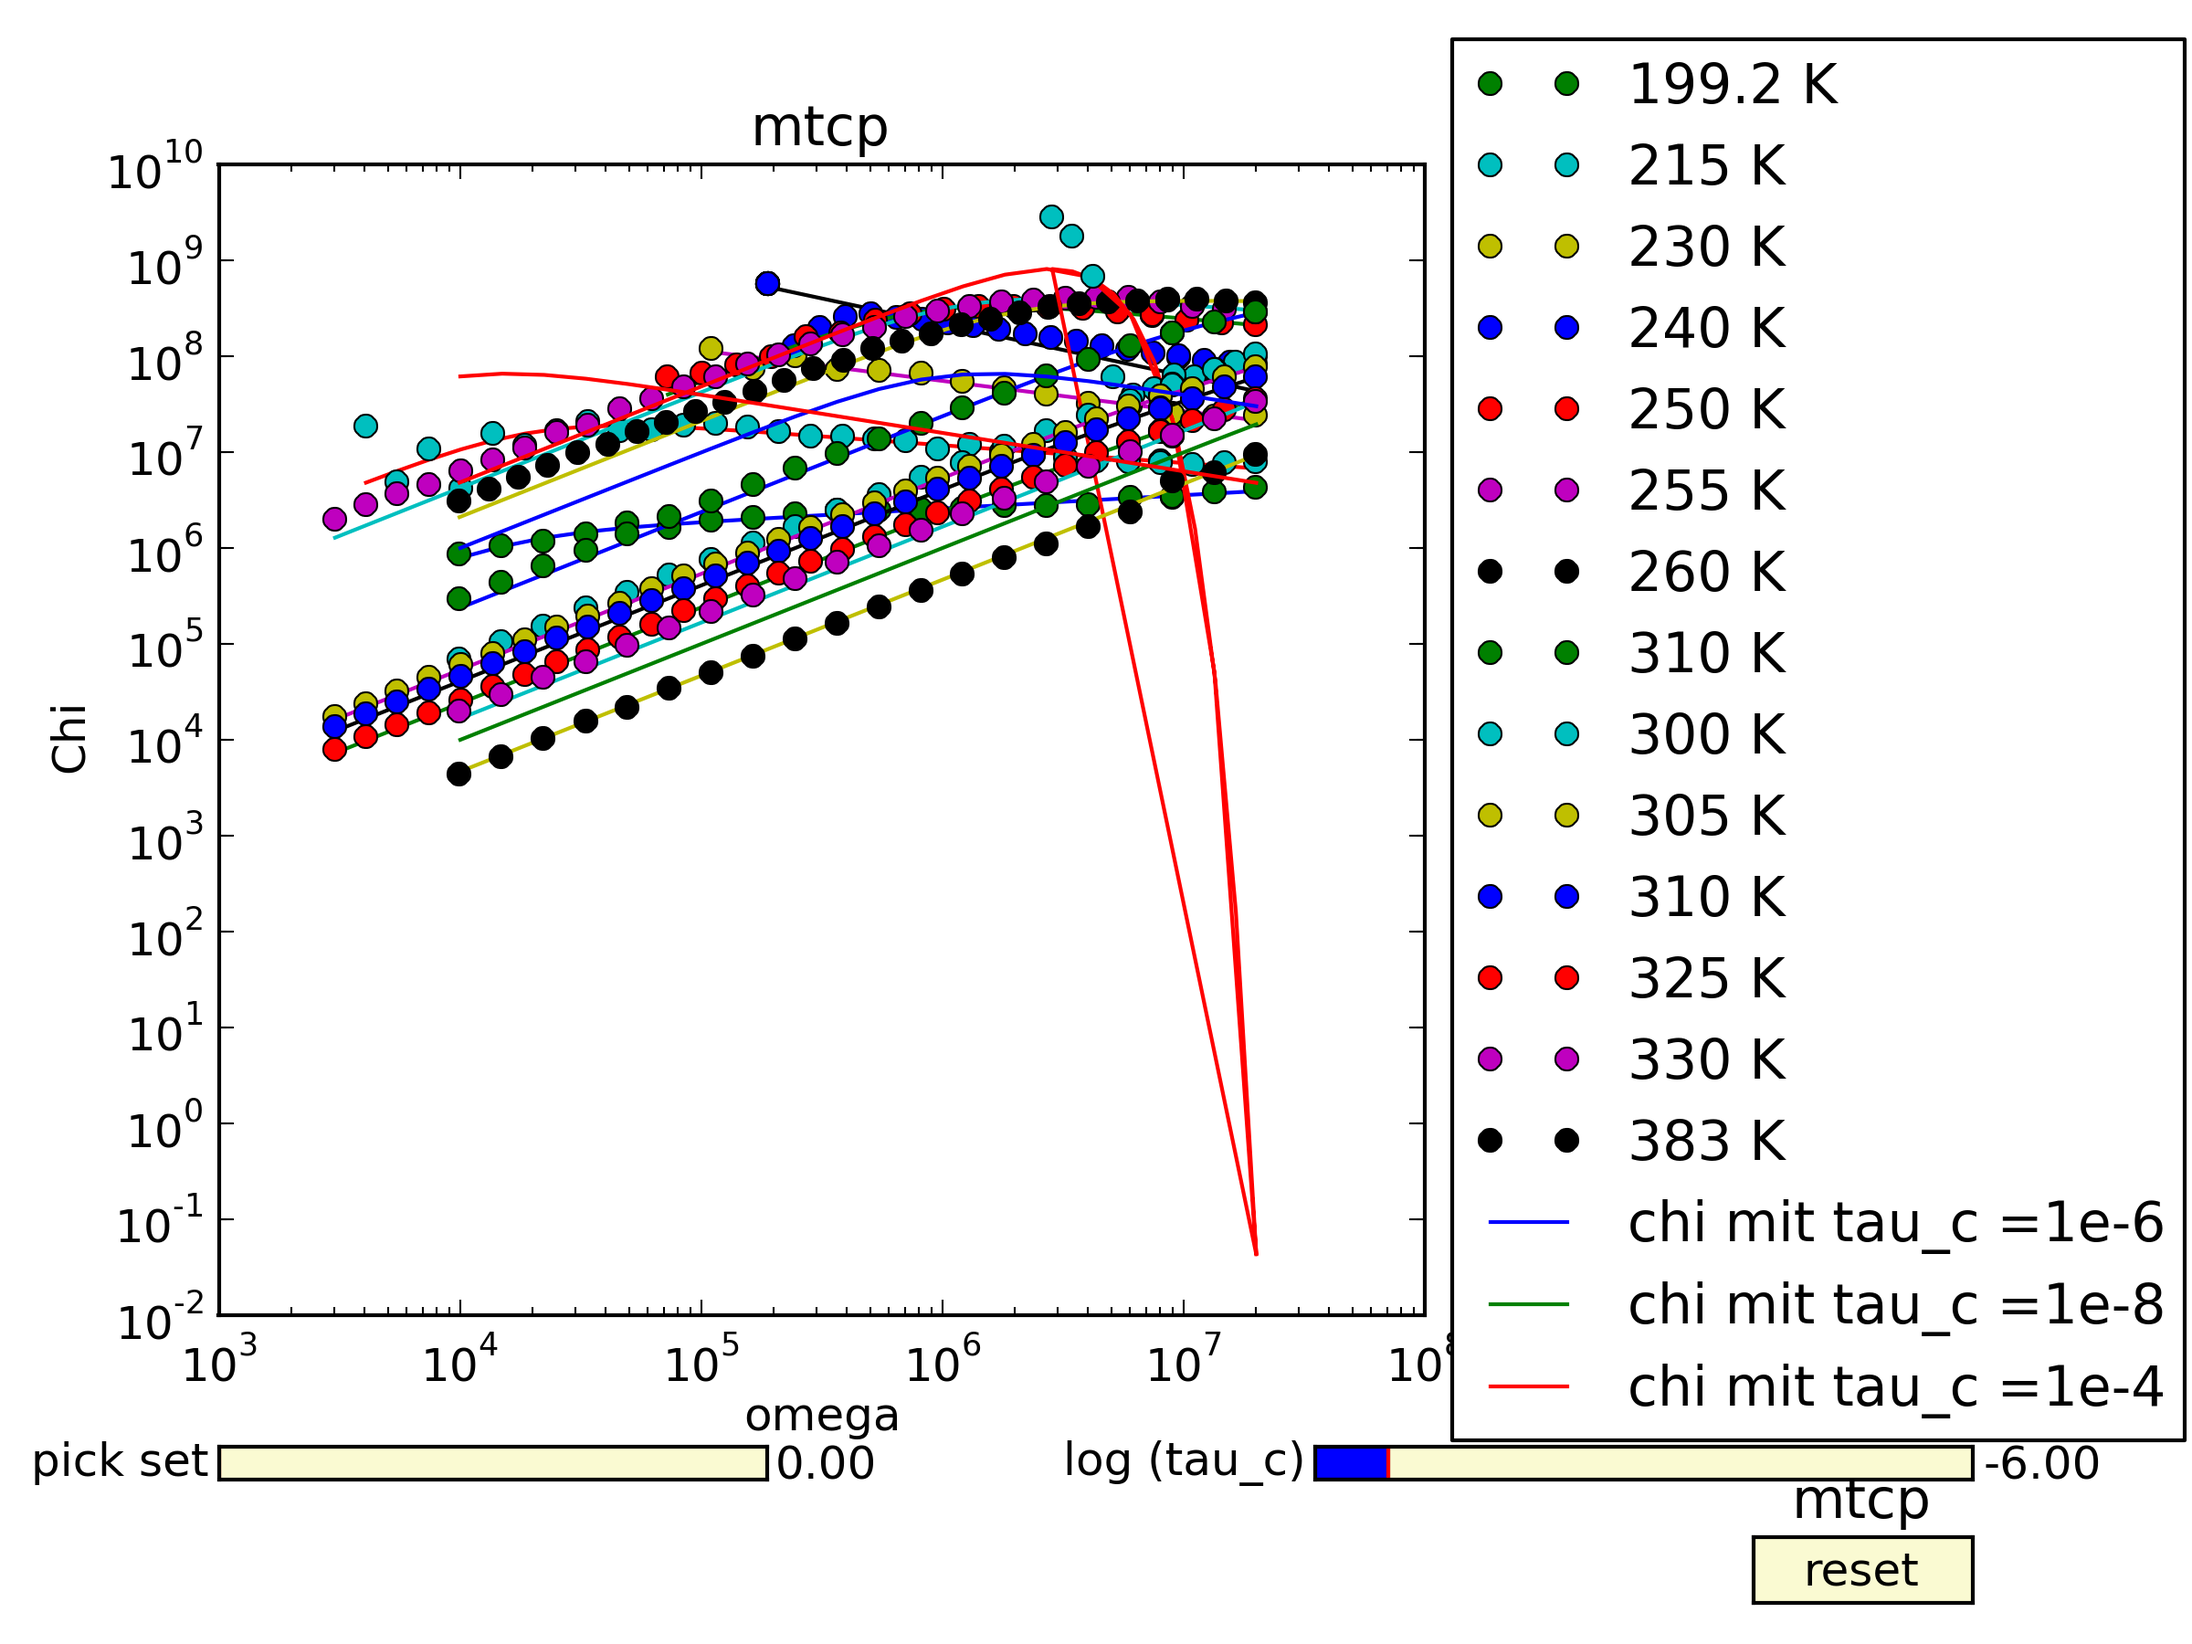
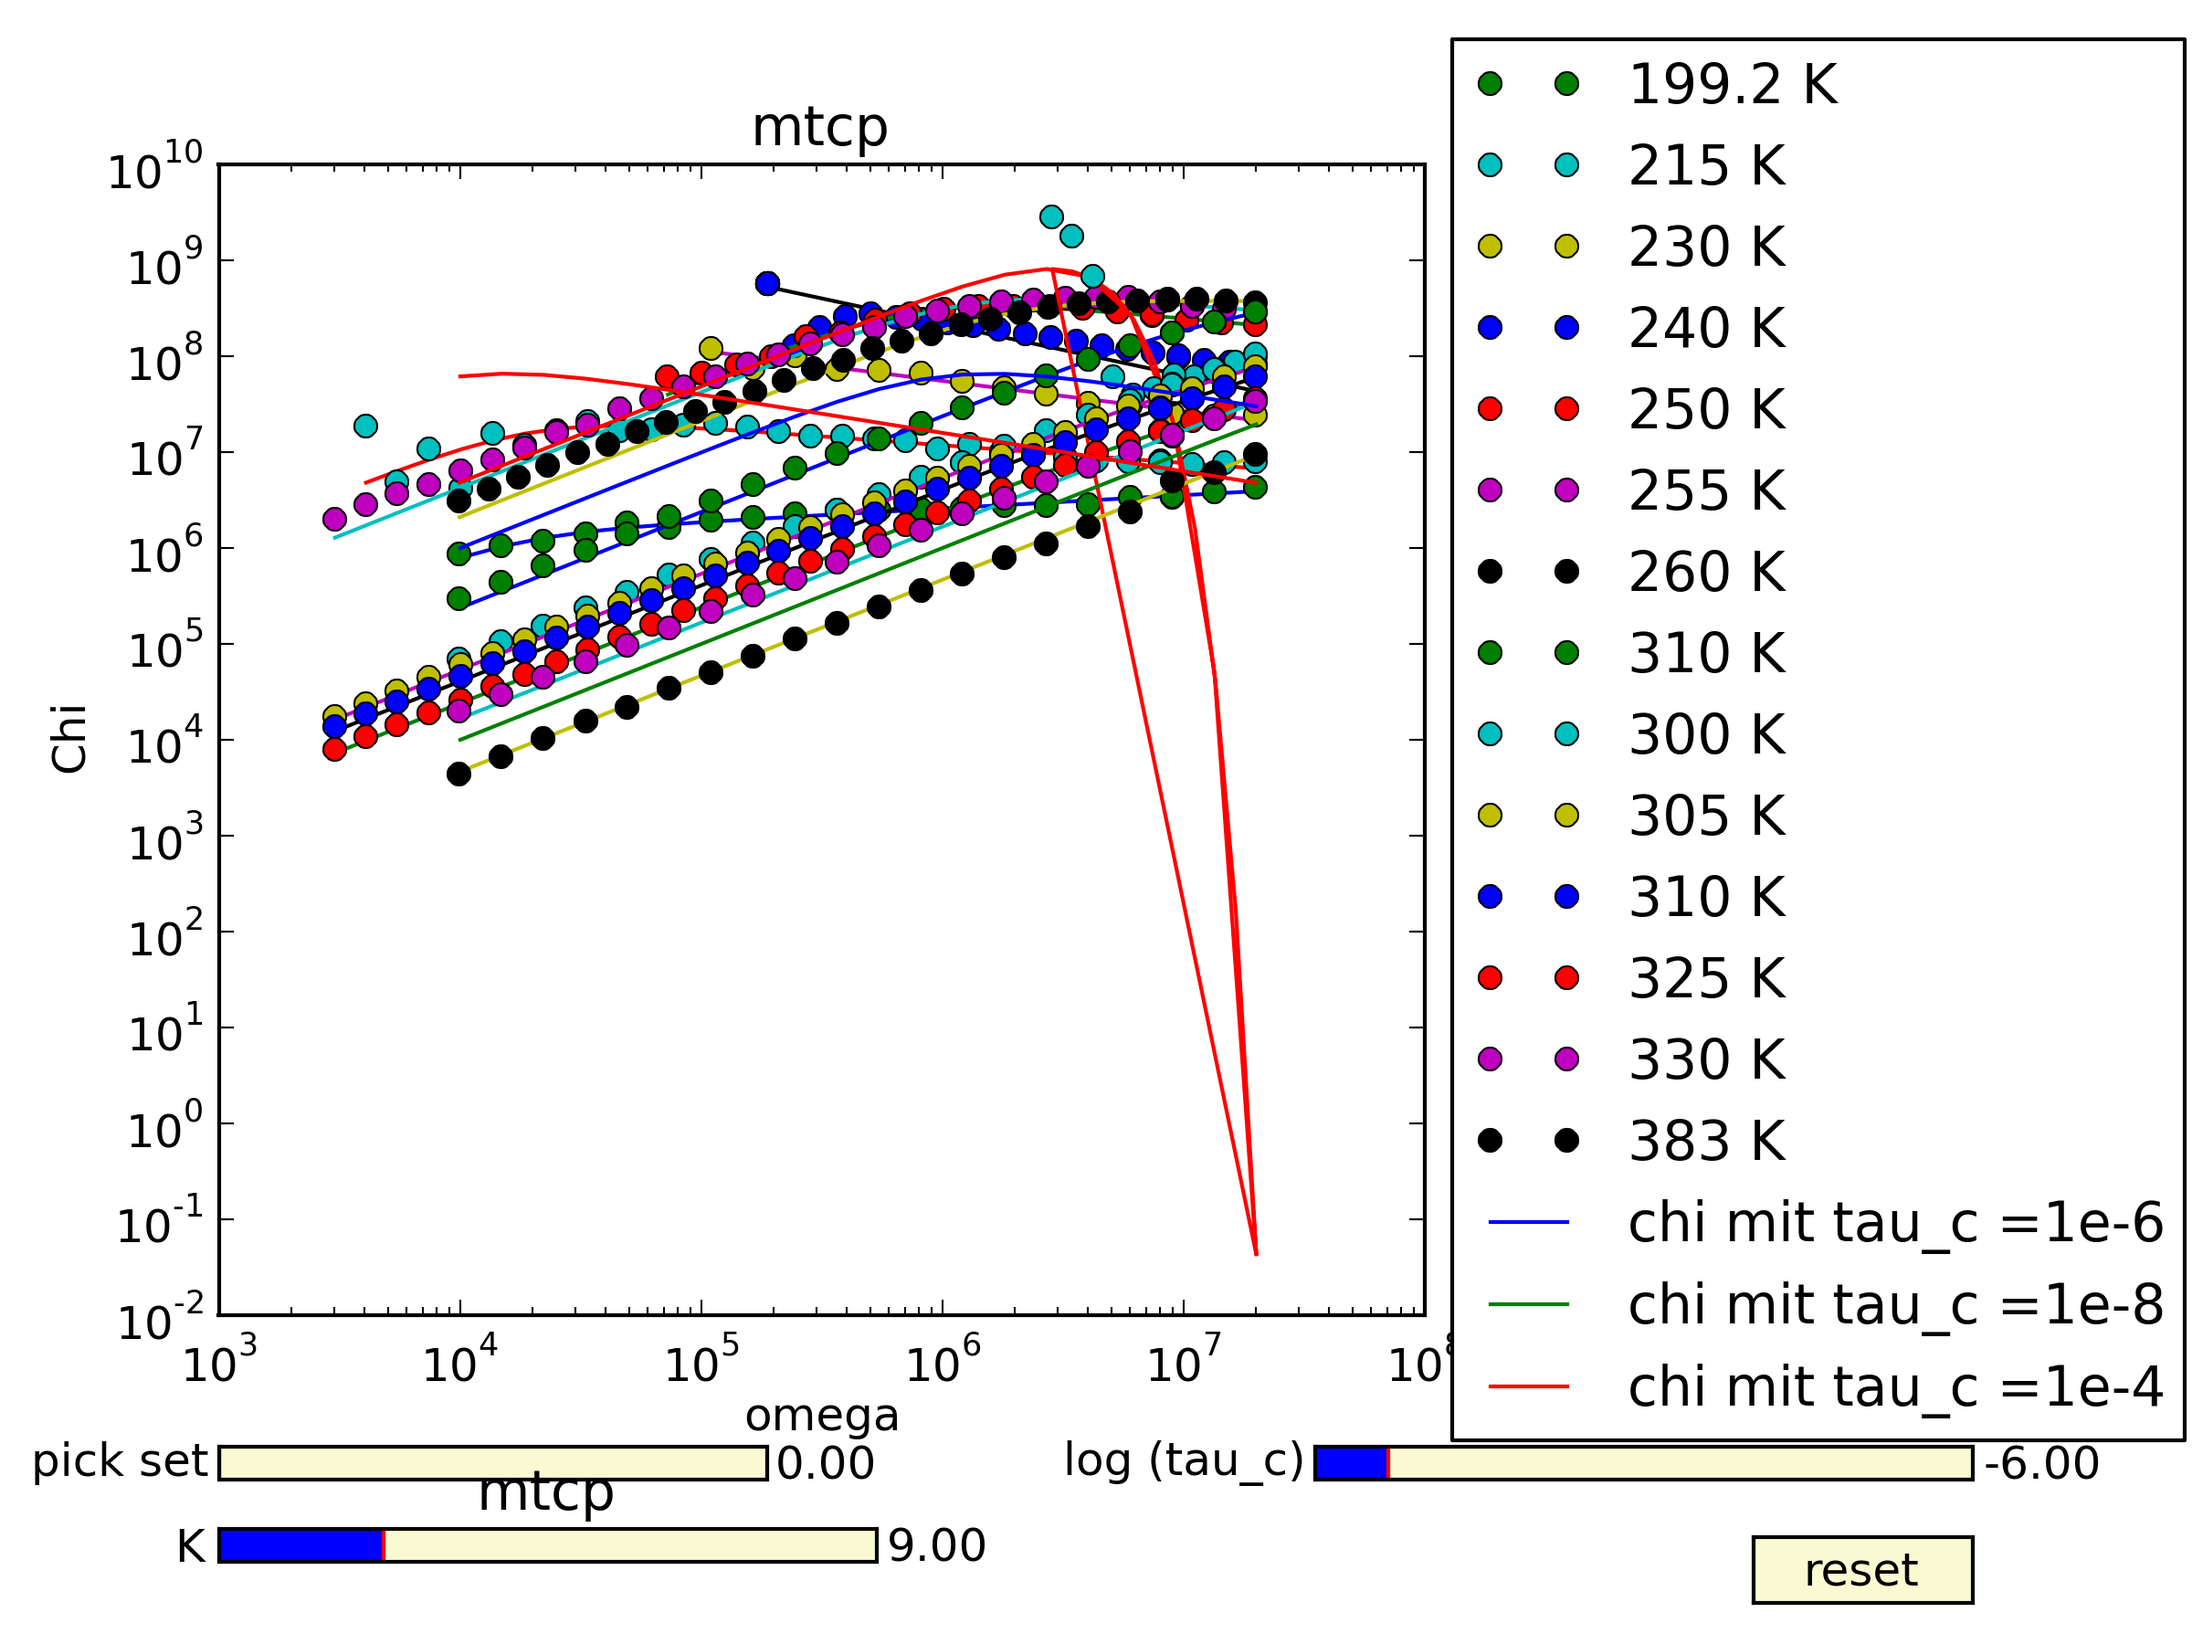
wir sind dran die D zu vergleichen mit schmidtke tau rot zeitkonstanten, output aus dem interaktiv susz geht no ned

Changed region(s): [[0.0938, 0.9022, 0.4375, 0.9644], [0.8125, 0.9022, 0.875, 0.9333]]

diff --git a/interaktiv-susz.py b/interaktiv-susz.py
@@ -14,6 +14,8 @@ br=[]
 rf=[]
 ra1=[]
 ch=[]
+zeichneD=[]
+zeichneT=[]
 beta=0.9
 omega=np.logspace(4.0,7.301,20,10)
 tau_c=1.0e-6
@@ -43,14 +45,14 @@ def Chi(omega,tau_c,beta,K_DD):
 def R_1(omega,R1_0,D):
 	mu_0 =1.2566e-6
 	h_quer = 6.626e-34/(2.*np.pi)
-	gamma_H=2.675e8*2*np.pi
+	gamma_H=2.675e8#/2/np.pi
 	N_a=6.022e23
 	n_H=21.0
 	rho=rho_mTCP=1.15*1e6
 	M=M_mTCP=368.4
 	N=n_H*N_a*rho/M
 	B=np.pi/30.*(1.+4.*(2.**0.5))*(mu_0/4./np.pi * h_quer * gamma_H **2)**2 * N
-	print N, omega,R1_0,D,B,R1_0-B/(D**1.5) *omega**0.5
+	#print N, omega,R1_0,D,B,R1_0-B/(D**1.5) *omega**0.5
 	return R1_0-B/(D**1.5) *omega**0.5
 ##die verschiebefunktion fuer die suszibilitaet
 def update(val):
@@ -119,21 +121,44 @@ def r_ref(r):
 	d=10**float(sd0.val)
 	for i,om in enumerate(omega): 
 		br.append(omega[i]**0.5)
-		ra1.append(R_1(omega[i],r,d))
+		ra1.append(R_1(omega[i],10**r,d))
 	wurzelax.lines[wurzelax.lines.__len__()-1].set_ydata(ra1)
 	plt.draw()
 def d0(d):
 	br=[]
 	ra1=[]
 	rf=[]
-	r=float(sr0.val)
+	r=10**float(sr0.val)
 	d=10**d
+	print d
 	for i,om in enumerate(omega): 
 		br.append(omega[i]**0.5)
 		ra1.append(R_1(omega[i],r,d))
 	wurzelax.lines[wurzelax.lines.__len__()-1].set_ydata(ra1)
 	plt.draw()
 	return d
+def conf(event):
+	d=float(sd0.val)
+	r=10**(float(sr0.val))
+	T=raw_input('gebe temperatur ein')
+	zeichneD.append(d)
+	zeichneT.append(1000/float(T))
+	plt.figure(5)
+	plt.plot(zeichneT,zeichneD)
+	lsout=[]
+	for i, x in enumerate(zeichneD):
+		lsout.append(str(zeichneD[i])+'\t'+str(zeichneT[i])+'\n \r')
+	fout=open('m-tcp_D.dat','w')
+	fout.write(str(lsout))
+
+def normchi(K):
+	plt.figure(1)
+	for line in ax.lines:
+		linex=line.get_xdata()
+		liney=line.get_ydata()
+		for y in liney: y=y/(10**K)
+		line.set_ydata(liney)
+	plt.draw()
 def reset(event):
 	stau_c.reset()
 
@@ -151,13 +176,17 @@ axpicker=plt.axes([0.1,0.1,0.25,0.02],axisbg=axcolor)
 picker=Slider(axpicker,'pick set',0,sef.__len__()-0.01,valinit=0)
 resetax =plt.axes([0.8,0.025,0.1,0.04])
 button = Button(resetax,'reset',color=axcolor,hovercolor='0.975')
+axK = plt.axes([0.1,0.05,0.3,0.02],axisbg=axcolor)
+sK=Slider(axK,'K',8,12,valinit=9)
 
 plt.figure(2)
 wurzelax=plt.axes([0.1,0.1,0.8,0.8])
 axr0=plt.axes([0.05,0.02,0.6,0.02],axisbg=axcolor)
-sr0=Slider(axr0,'r0',500,2000,valinit=1.0)
+sr0=Slider(axr0,'r0',-1,4,valinit=1.0)
 axD=plt.axes([0.7,0.02,0.2,0.02],axisbg=axcolor)
 sd0=Slider(axD,'D',-15,-7,valinit=-11)
+confax =plt.axes([0.9,0.025,0.08,0.04])
+bconf = Button(confax,'confirm & append',color=axcolor,hovercolor='0.975')
 
 plt.figure(3)
 ##wird spaeter bemalt
@@ -168,12 +197,19 @@ plt.title('verschiebefaktoren in der suszeptiblitaet')
 plt.xlabel('T')
 plt.ylabel('schiebefaktoren a.u.')
 
+plt.figure(5)
+diffax=plt.axes([0.15,0.15,0.8,0.8])
+plt.title('Diffusion')
+plt.xlabel('1000/T $[K^{-1}]$')
+plt.ylabel(r'lg(D) $[\frac{m^2}{s}]$')
 ##interaktion mit der gui
 picker.on_changed(pick)
 button.on_clicked(reset)
 stau_c.on_changed(update)
+sK.on_changed(normchi)
 sr0.on_changed(r_ref)
 sd0.on_changed(d0)
+bconf.on_clicked(conf)
 
 sefdata=[]
 temps=[]
@@ -243,7 +279,7 @@ for filename in sef:
 	wurzelax=plt.axes([0.1,0.1,0.8,0.8])
 	for i, b in enumerate(brlx):
 		brlx[i]=brlx[i]**0.5
-	plt.plot(brlx,r1,label=relativefile[0])
+	plt.plot(brlx,r1,label=temp+' K')
 	plt.figure(3)
 	plt.title('Rate')
 	plt.xscale('log')
@@ -258,6 +294,7 @@ print (map(lambda x: x**0.5,omega),map(lambda y:R_1(y,2,1e-10),wurzelomega))
 
 plt.figure(2)
 plt.plot(wurzelomega,map(lambda x: R_1(x,20,10e-9),omega))
+plt.legend()
 plt.figure(1)
 plt.plot(omega, Chi(omega,1e-6,0.7,1e8),label='chi mit tau_c =1e-6')
 plt.plot(omega, Chi(omega,1e-8,0.7,1e8),label='chi mit tau_c =1e-8')

diff --git a/mtcp/interaktiv-susz.py b/mtcp/interaktiv-susz.py
@@ -14,6 +14,8 @@ br=[]
 rf=[]
 ra1=[]
 ch=[]
+zeichneD=[]
+zeichneT=[]
 beta=0.9
 omega=np.logspace(4.0,7.301,20,10)
 tau_c=1.0e-6
@@ -43,14 +45,14 @@ def Chi(omega,tau_c,beta,K_DD):
 def R_1(omega,R1_0,D):
 	mu_0 =1.2566e-6
 	h_quer = 6.626e-34/(2.*np.pi)
-	gamma_H=2.675e8*2*np.pi
+	gamma_H=2.675e8#/2/np.pi
 	N_a=6.022e23
 	n_H=21.0
 	rho=rho_mTCP=1.15*1e6
 	M=M_mTCP=368.4
 	N=n_H*N_a*rho/M
 	B=np.pi/30.*(1.+4.*(2.**0.5))*(mu_0/4./np.pi * h_quer * gamma_H **2)**2 * N
-	print N, omega,R1_0,D,B,R1_0-B/(D**1.5) *omega**0.5
+	#print N, omega,R1_0,D,B,R1_0-B/(D**1.5) *omega**0.5
 	return R1_0-B/(D**1.5) *omega**0.5
 ##die verschiebefunktion fuer die suszibilitaet
 def update(val):
@@ -119,21 +121,38 @@ def r_ref(r):
 	d=10**float(sd0.val)
 	for i,om in enumerate(omega): 
 		br.append(omega[i]**0.5)
-		ra1.append(R_1(omega[i],r,d))
+		ra1.append(R_1(omega[i],10**r,d))
 	wurzelax.lines[wurzelax.lines.__len__()-1].set_ydata(ra1)
 	plt.draw()
 def d0(d):
 	br=[]
 	ra1=[]
 	rf=[]
-	r=float(sr0.val)
+	r=10**float(sr0.val)
 	d=10**d
+	print d
 	for i,om in enumerate(omega): 
 		br.append(omega[i]**0.5)
 		ra1.append(R_1(omega[i],r,d))
 	wurzelax.lines[wurzelax.lines.__len__()-1].set_ydata(ra1)
 	plt.draw()
 	return d
+def conf(event):
+	d=10**(float(sd0.val))
+	r=10**(float(sr0.val))
+	zeichneD.append(d)
+	T=raw_input('gebe temperatur ein')
+	zeichneT.append(1000/float(T))
+	plt.figure(5)
+	plt.plot(zeichneT,zeichneD)
+def normchi(K):
+	plt.figure(1)
+	for line in ax.lines:
+		linex=line.get_xdata()
+		liney=line.get_ydata()
+		for y in liney: y=y/(10**K)
+		line.set_ydata(liney)
+	plt.draw()
 def reset(event):
 	stau_c.reset()
 
@@ -151,13 +170,17 @@ axpicker=plt.axes([0.1,0.1,0.25,0.02],axisbg=axcolor)
 picker=Slider(axpicker,'pick set',0,sef.__len__()-0.01,valinit=0)
 resetax =plt.axes([0.8,0.025,0.1,0.04])
 button = Button(resetax,'reset',color=axcolor,hovercolor='0.975')
+axK = plt.axes([0.1,0.05,0.3,0.02],axisbg=axcolor)
+sK=Slider(axK,'K',8,12,valinit=9)
 
 plt.figure(2)
 wurzelax=plt.axes([0.1,0.1,0.8,0.8])
 axr0=plt.axes([0.05,0.02,0.6,0.02],axisbg=axcolor)
-sr0=Slider(axr0,'r0',0.1500,10.2000,valinit=1.0)
+sr0=Slider(axr0,'r0',-1,4,valinit=1.0)
 axD=plt.axes([0.7,0.02,0.2,0.02],axisbg=axcolor)
-sd0=Slider(axD,'D',-13,-8,valinit=-11)
+sd0=Slider(axD,'D',-15,-7,valinit=-11)
+confax =plt.axes([0.9,0.025,0.08,0.04])
+bconf = Button(confax,'confirm & append',color=axcolor,hovercolor='0.975')
 
 plt.figure(3)
 ##wird spaeter bemalt
@@ -168,12 +191,19 @@ plt.title('verschiebefaktoren in der suszeptiblitaet')
 plt.xlabel('T')
 plt.ylabel('schiebefaktoren a.u.')
 
+plt.figure(5)
+diffax=plt.axes([0.15,0.15,0.8,0.8])
+plt.title('Diffusion')
+plt.xlabel('1000/T $[K^{-1}]$')
+plt.ylabel(r'D $[\frac{m^2}{s}]$')
 ##interaktion mit der gui
 picker.on_changed(pick)
 button.on_clicked(reset)
 stau_c.on_changed(update)
+sK.on_changed(normchi)
 sr0.on_changed(r_ref)
 sd0.on_changed(d0)
+bconf.on_clicked(conf)
 
 sefdata=[]
 temps=[]
@@ -243,7 +273,7 @@ for filename in sef:
 	wurzelax=plt.axes([0.1,0.1,0.8,0.8])
 	for i, b in enumerate(brlx):
 		brlx[i]=brlx[i]**0.5
-	plt.plot(brlx,r1,label=relativefile[0])
+	plt.plot(brlx,r1,label=temp+' K')
 	plt.figure(3)
 	plt.title('Rate')
 	plt.xscale('log')
@@ -258,6 +288,7 @@ print (map(lambda x: x**0.5,omega),map(lambda y:R_1(y,2,1e-10),wurzelomega))
 
 plt.figure(2)
 plt.plot(wurzelomega,map(lambda x: R_1(x,20,10e-9),omega))
+plt.legend()
 plt.figure(1)
 plt.plot(omega, Chi(omega,1e-6,0.7,1e8),label='chi mit tau_c =1e-6')
 plt.plot(omega, Chi(omega,1e-8,0.7,1e8),label='chi mit tau_c =1e-8')

diff --git a/mtcp/interaktivabsturz.py b/mtcp/interaktivabsturz.py
@@ -43,14 +43,14 @@ def Chi(omega,tau_c,beta,K_DD):
 def R_1(omega,R1_0,D):
 	mu_0 =1.2566e-6
 	h_quer = 6.626e-34/(2.*np.pi)
-	gamma_H=2.675e8*2*np.pi
+	gamma_H=2.675e8#/2/np.pi
 	N_a=6.022e23
 	n_H=21.0
 	rho=rho_mTCP=1.15*1e6
 	M=M_mTCP=368.4
 	N=n_H*N_a*rho/M
 	B=np.pi/30.*(1.+4.*(2.**0.5))*(mu_0/4./np.pi * h_quer * gamma_H **2)**2 * N
-	print omega,R1_0,D,B,R1_0-B/(D**1.5) *omega**0.5
+	#print N, omega,R1_0,D,B,R1_0-B/(D**1.5) *omega**0.5
 	return R1_0-B/(D**1.5) *omega**0.5
 ##die verschiebefunktion fuer die suszibilitaet
 def update(val):
@@ -128,12 +128,21 @@ def d0(d):
 	rf=[]
 	r=float(sr0.val)
 	d=10**d
+	print d
 	for i,om in enumerate(omega): 
 		br.append(omega[i]**0.5)
 		ra1.append(R_1(omega[i],r,d))
 	wurzelax.lines[wurzelax.lines.__len__()-1].set_ydata(ra1)
 	plt.draw()
 	return d
+def normchi(K):
+	plt.figure(1)
+	for line in ax.lines:
+		linex=line.get_xdata()
+		liney=line.get_ydata()
+		for y in liney: y=y/(10**K)
+		line.set_ydata(liney)
+	plt.draw()
 def reset(event):
 	stau_c.reset()
 
@@ -151,11 +160,13 @@ axpicker=plt.axes([0.1,0.1,0.25,0.02],axisbg=axcolor)
 picker=Slider(axpicker,'pick set',0,sef.__len__()-0.01,valinit=0)
 resetax =plt.axes([0.8,0.025,0.1,0.04])
 button = Button(resetax,'reset',color=axcolor,hovercolor='0.975')
+axK = plt.axes([0.1,0.05,0.3,0.02],axisbg=axcolor)
+sK=Slider(axK,'K',8,12,valinit=9)
 
 plt.figure(2)
 wurzelax=plt.axes([0.1,0.1,0.8,0.8])
 axr0=plt.axes([0.05,0.02,0.6,0.02],axisbg=axcolor)
-sr0=Slider(axr0,'r0',500,2000,valinit=1.0)
+sr0=Slider(axr0,'r0',0.05,4,valinit=1.0)
 axD=plt.axes([0.7,0.02,0.2,0.02],axisbg=axcolor)
 sd0=Slider(axD,'D',-15,-7,valinit=-11)
 
@@ -172,6 +183,7 @@ plt.ylabel('schiebefaktoren a.u.')
 picker.on_changed(pick)
 button.on_clicked(reset)
 stau_c.on_changed(update)
+sK.on_changed(normchi)
 sr0.on_changed(r_ref)
 sd0.on_changed(d0)
 
@@ -205,9 +217,12 @@ for filename in sef:
 		zone.append(liste[5])
 		zone=map(int,zone)
 		relativefile.append(liste[6])
-	fin2=open(relativefile[0],'r')
+	fin2=open(relativefile[1],'r')
 	sdfdata=fin2.readlines()
-	temp=sdfdata[sdfdata.index('ZONE=\t'+str(zone[zone.__len__()-2])+'\r\n')+7]
+	temp=sdfdata[
+			sdfdata.index(
+				'ZONE=\t'+str(zone[
+					sef.index(filename)])+'\r\n')+7]
 	temp=temp[6:]
 	temp=temp.rstrip()
 	temps.append(float(temp))
@@ -240,7 +255,7 @@ for filename in sef:
 	wurzelax=plt.axes([0.1,0.1,0.8,0.8])
 	for i, b in enumerate(brlx):
 		brlx[i]=brlx[i]**0.5
-	plt.plot(brlx,r1,label=relativefile[0])
+	plt.plot(brlx,r1,label=temp+' K')
 	plt.figure(3)
 	plt.title('Rate')
 	plt.xscale('log')
@@ -255,6 +270,7 @@ print (map(lambda x: x**0.5,omega),map(lambda y:R_1(y,2,1e-10),wurzelomega))
 
 plt.figure(2)
 plt.plot(wurzelomega,map(lambda x: R_1(x,20,10e-9),omega))
+plt.legend()
 plt.figure(1)
 plt.plot(omega, Chi(omega,1e-6,0.7,1e8),label='chi mit tau_c =1e-6')
 plt.plot(omega, Chi(omega,1e-8,0.7,1e8),label='chi mit tau_c =1e-8')

diff --git a/mtcp/zeitkonstanten.py b/mtcp/zeitkonstanten.py
@@ -1,0 +1,26 @@
+#!/usr/bin/python
+import glob
+import re
+import numpy as np
+import scipy as sp
+from scipy.optimize import curve_fit
+import matplotlib.pyplot as plt
+from matplotlib.widgets import Slider, Button, CheckButtons
+
+plt.figure(1)
+tauax=plt.axes([0.1,0.2,0.7,0.7])
+
+axcolor = 'lightgoldenrodyellow'
+axtau = plt.axes([0.8,0.1,0.4,0.02],axisbg=axcolor)
+stau=Slider(axtau,'y skalierung',-2,5,valinit=1)
+fzk=open('m-tcp_zk.dat','r')
+dataschmidtke=fzk.readlines()
+T_s=[]
+tau_rot=[]
+for data in dataschmidtke:
+	liste = data.split()
+	T_s.append(float(liste[1]))
+	tau_rot.append(float(liste[0]))
+plt.axes([0.1,0.2,0.7,0.7])
+plt.plot(tau_rot,T_s,ls='None',marker='o')
+plt.show()
